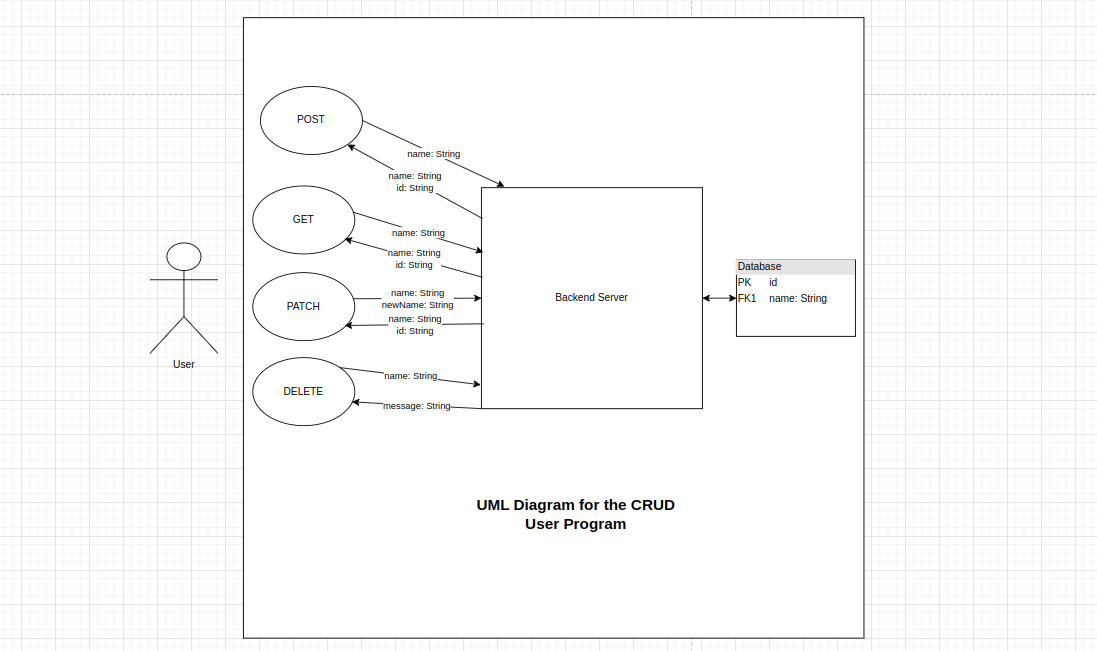
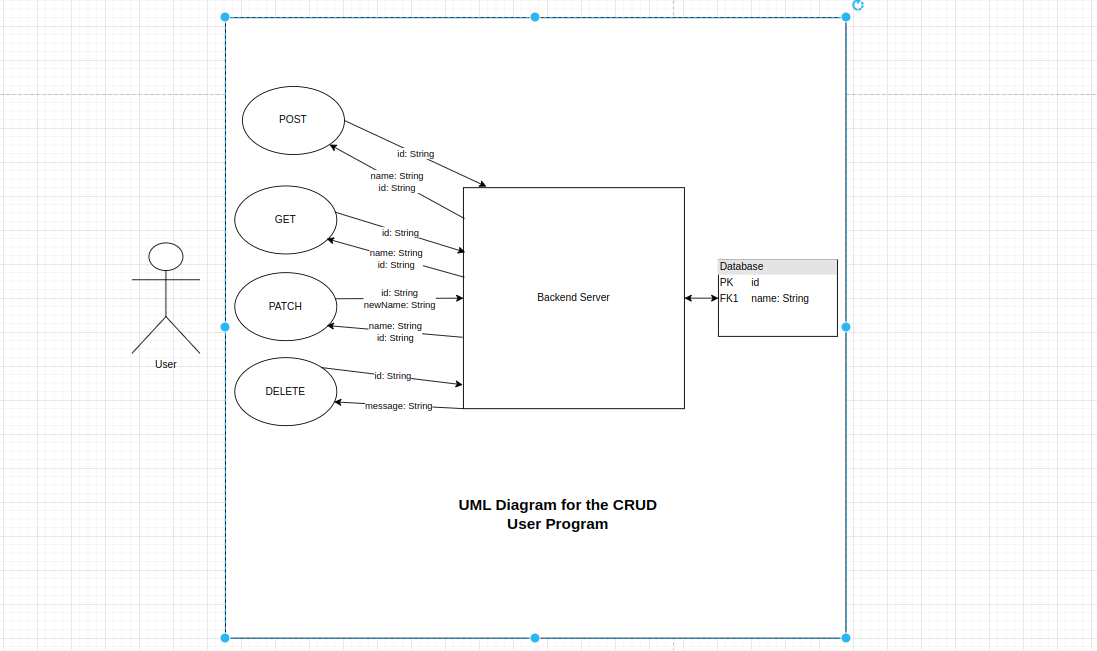
fix: update image and README

diff --git a/README.md b/README.md
@@ -46,11 +46,12 @@ This backend project is created to serve an A.P.I using the R.E.S.T protocool. C
 
 <br>
 
-- Params
-  - name: String
-
 ```
- https://hngx-stage2.onrender.com/api?name=John
+ https://hngx-stage2.onrender.com/api
+
+ {
+    name: "John"
+ }
 ```
 
 If the name is not already in use, you should get the name and an id as successfull response.
@@ -72,14 +73,11 @@ If the name is not already in use, you should get the name and an id as successf
 
 <br>
 
-- Params
-  - name: String
-
 ```
- https://hngx-stage2.onrender.com/api?name=John
+ https://hngx-stage2.onrender.com/api/64fe1a06ef2f7757e645289a
 ```
 
-If the name exists, you should get the name and id as successfull response.
+If the id exists, you should get the name and id as successfull response.
 
 ```
 {
@@ -101,21 +99,19 @@ If the name exists, you should get the name and id as successfull response.
 - Body
   ```
   {
-    name: <String>,
     newName: <String>
   }
   ```
 
 ```
- https://hngx-stage2.onrender.com/api
+ https://hngx-stage2.onrender.com/api/64fe1a06ef2f7757e645289a
 
  {
-    name: "John",
     newName: "Joe"
  }
 ```
 
-If the name exists and the new name isn't taken already, you should get the name and id as successfull response.
+If the id exists and the new name isn't taken already, you should get the name and id as successfull response.
 
 ```
 {
@@ -134,18 +130,15 @@ If the name exists and the new name isn't taken already, you should get the name
 
 <br>
 
-- Params
-  - name: String
-
 ```
- https://hngx-stage2.onrender.com/api?name=John
+ https://hngx-stage2.onrender.com/api/64fe1a06ef2f7757e645289a
 ```
 
-If the name exists, you should get a successfull response.
+If the id exists, you should get a successfull response.
 
 ```
 {
-    message: "John has been deleted successfully",
+    message: "64fe1a06ef2f7757e645289a has been deleted successfully",
 }
 ```
 
@@ -154,7 +147,7 @@ If the name exists, you should get a successfull response.
 
 ### Note :bangbang:
 
-- All values sent are trimmed, so sending "`John`" is the same as "`John`" .
+- All values sent are trimmed.
 - When there is an error, a detailed reason would be sent in the message property of the response object
 
 ```
